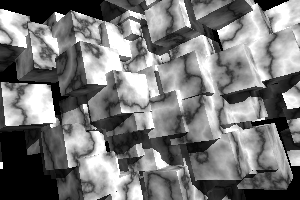
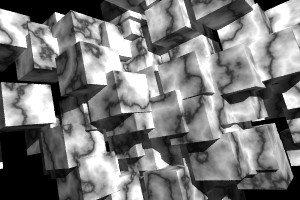
adding antialiasing

diff --git a/test_vapory.py b/test_vapory.py
@@ -21,9 +21,9 @@ def compute_depth(scene,width,height,tempfilename='__tmp__'):
     with open(pov_file, 'w+') as f:
         f.write(strscene)    
 
-    cmd='megapov +Q9 -UV +w%d +h%d -A +L.  +K0.0 %s +O%s.png'%(width,height,pov_file,tempfilename)
-    print subprocess.Popen(cmd, shell=True, stdout=subprocess.PIPE).stdout.read()
 
+    cmd='megapov +FN16 +Q9 -UV +w%d +h%d +A0.01 +L.  +K0.0 %s +O%s.png'%(width,height,pov_file,tempfilename)
+    print subprocess.Popen(cmd, shell=True, stdout=subprocess.PIPE).stdout.read()
 
     depth=np.fromfile(tempfilename+'.depth',dtype=np.float)
     depth2=depth.byteswap()# the data is save in the little indian forma tin the file

diff --git a/readme.md b/readme.md
@@ -112,95 +112,17 @@ and a symbolic link
 
 ## testing 
 
+run the python script test_vapory.py:
 
+	python test_vapory.py
 
-following the example from [here](http://devernay.free.fr/vision/focus/office/) i'm trying to generate a stereo pair with the corresponding disparity map
-we first fetch the data and create folder
-
-	mkdir data
-	cd data
-	mkdir office
-	cd office
-	wget http://devernay.free.fr/vision/focus/office/office-focalblur.zip
-	unzip -a office-focalblur.zip
-	cd office-focalblur
-	wget  http://www.ignorancia.org/uploads/zips/office.zip
-	unzip -a office.zip
-	wget  http://www.ignorancia.org/uploads/zips/lightsys4c.zip
-	unzip -a lightsys4c.zip
-	wget http://www.ignorancia.org/uploads/zips/bookplacer.zip
-	unzip -a bookplacer.zip
-	wget http://www.ignorancia.org/uploads/zips/meshlath.zip
-	unzip -a meshlath.zip	
-	mkdir office-left office-right
-	
-we render the scene with very low quality in order to quickly get the depth information
-
-	megapov +Q0 -UV +w320 +h240 -A +L. +L./office +L./office/maps +L./LightsysIV +L./office-left +K0.0 +Ioffice_stereo_megapov.pov +Ooffice_stereo1_megapov.png
-	megapov +Q0 -UV +w320 +h240 -A +L. +L./office +L./office/maps +L./LightsysIV +L./office-right +K1.0 +Ioffice_stereo_megapov.pov +Ooffice_stereo2_megapov.png
-
-	
-
-this should have create 3 files in each subfolder office-left: office_stereo1_megapov.png,office_stereo1_megapov.txt,office_stereo1_megapov.depth
-and three similar files in office-right. I you don't have te txt and depth files generated you may not be calling the patched megapov version (using megapov-annotation-0.2.patch see above).
-The depth file containe the distances to the camera for each pixel in a little indian floatting point format. You can visualize the depth map using read_depth.py
-
-![left depth image](images/depth_left.png) 
-
-
-we can now get the occlusion masks 
-
-	vlpov_motionfield2 office-left/office_stereo1_megapov office-right/office_stereo2_megapov
-
-this creates 3 files 	office_stereo1_megapov.office_stereo2_megapov.occ.tif (occlusion mask), office_stereo1_megapov.office_stereo2_megapov.my.tif (disparity map in direction y, it should be all zeros but i get values of about 0.00001) and office_stereo1_megapov.office_stereo2_megapov.mx.tif (disparity map in direction x ? )
-the motion field images are 32bit floating point tif files which cannot be visualize in the default ubuntu image viewer, however you can read ans export them to png images using read_depth.py
-
-occlusion map:
-![occlusion](images/occlusion.png)
-
-disparity my:
-![otion field my](images/motionfield_my.png)
-
-disparity mx:
-![motion field mx](images/motionfield_mx.png)
-
-getting the disparity maps
-	
-	(echo -100 110 -20; echo 65 289 165) | vlpov_project office-left/office_stereo1_megapov office-right/office_stereo2_megapov
-
-this seems to only print the following information, without file beeing created. Is that information combined with thr motion field enought to create the disparity maps ? 
-	159.373 275.731 534.022 0.25369 -1.16108e-05
-	161.238 275.731 267.011 -3.47487 1.63918e-06
-
-
-We can also render the image with better qualities and different focus zones
-
-	megapov +FN16 +Q9 -UV +w320 +h240 -A +L. +L./office +L./office/maps +L./LightsysIV +L./office-left +K0.0 +Ioffice_stereo_far.pov +Ooffice_stereo1_far.png
-	megapov +FN16 +Q9 -UV +w320 +h240 -A +L. +L./office +L./office/maps +L./LightsysIV +L./office-left +K0.0 +Ioffice_stereo_near.pov +Ooffice_stereo1_near.png
-	megapov +FN16 +Q9 -UV +w320 +h240 -A +L. +L./office +L./office/maps +L./LightsysIV +L./office-left +K0.0 +Ioffice_stereo_near2.pov +Ooffice_stereo1_near2.png
-	megapov +FN16 +Q9 -UV +w320 +h240 -A +L. +L./office +L./office/maps +L./LightsysIV +L./office-left +K0.0 +Ioffice_stereo_far2.pov +Ooffice_stereo1_far2.png
-	megapov +FN16 +Q9 -UV +w320 +h240 +A0.0 +J0.0 -A +L. +L./office +L./office/maps +L./LightsysIV +L./office-left +K0.0 +Ioffice_stereo.pov +Ooffice_stereo1_all.png
-	megapov +FN16 +Q9 -UV +w320 +h240 +L. +L./office +L./office/maps +L./LightsysIV +L./office-right +K1.0 +Ioffice_stereo_far.pov +Ooffice_stereo2_far.png
-	megapov +FN16 +Q9 -UV +w320 +h240 +L. +L./office +L./office/maps +L./LightsysIV +L./office-right +K1.0 +Ioffice_stereo_near.pov +Ooffice_stereo2_near.png
-	megapov +FN16 +Q9 -UV +w320 +h240 +L. +L./office +L./office/maps +L./LightsysIV +L./office-right +K1.0 +Ioffice_stereo_near2.pov +Ooffice_stereo2_near2.png
-	megapov +FN16 +Q9 -UV +w320 +h240 +L. +L./office +L./office/maps +L./LightsysIV +L./office-right +K1.0 +Ioffice_stereo_far2.pov +Ooffice_stereo2_far2.png
-	megapov +FN16 +Q9 -UV +w320 +h240 +A0.0 +J0.0 +L. +L./office +L./office/maps +L./LightsysIV +L./office-right +K1.0 +Ioffice_stereo.pov +Ooffice_stereo2_all.png
-
-
-the rendering at this level of quality is very long to run, about an hour for one image, despite the small resolution.
-I have the impression that is is much slower that the precompiled version of povray 3.7 , is it so ? 
-
-megapov +FN16 +Q0 -UV +w320 +h240 -A +L. +L./office +L./office/maps +L./LightsysIV +L./office-left +K0.0 +Ioffice_stereo_far.pov +Ooffice_stereo1_far.png
-megapov  +Q0 -UV +w320 +h240 -A +L. +L./office +L./office/maps +L./LightsysIV +L./office-left +K0.0 +Ioffice_stereo_far.pov +Ooffice_stereo1_far.png
-
+it will create the images show in the examples above
 
 #TODO
 
-* modify vapory to use the patched megapov executable (or use the symbolic link trick discussed above) and add the code to read the depth map, disparity maps and occlusion map (read_depth/py) to the vapory code, to make a nice python interface. We need to add a local copy of vapory to the code to do that.
+* modify vapory or add a layer to use the patched megapov executable (or use the symbolic link trick discussed above) and add the code to read the depth map, disparity maps and occlusion map (read_depth/py) to the vapory code, to make a nice python interface. We need to add a local copy of vapory to the code to do that.
 
-* make a script to make the full installation process easier using pip install. 
 
-* maybe add the code of vapory, megapov and vlpovutils to the repository to make the installation easier ? 
 
 # some models available online
 
